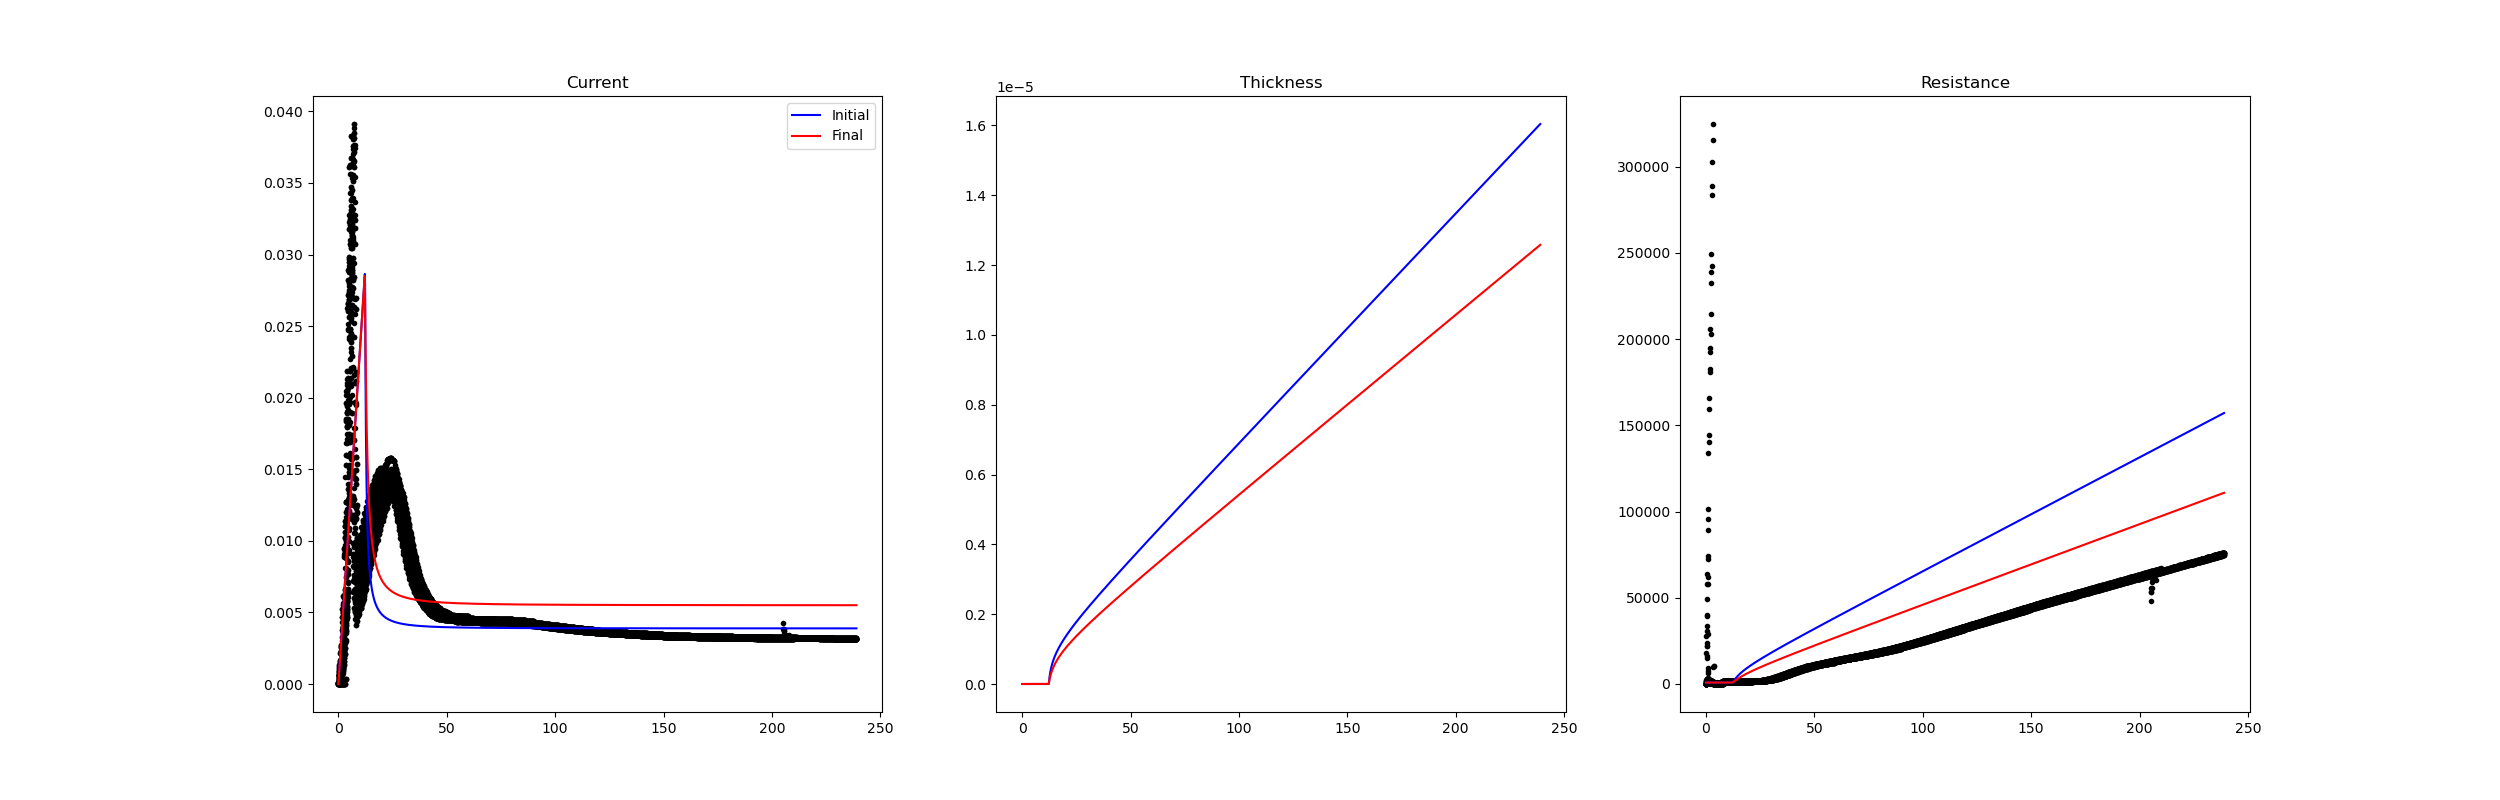
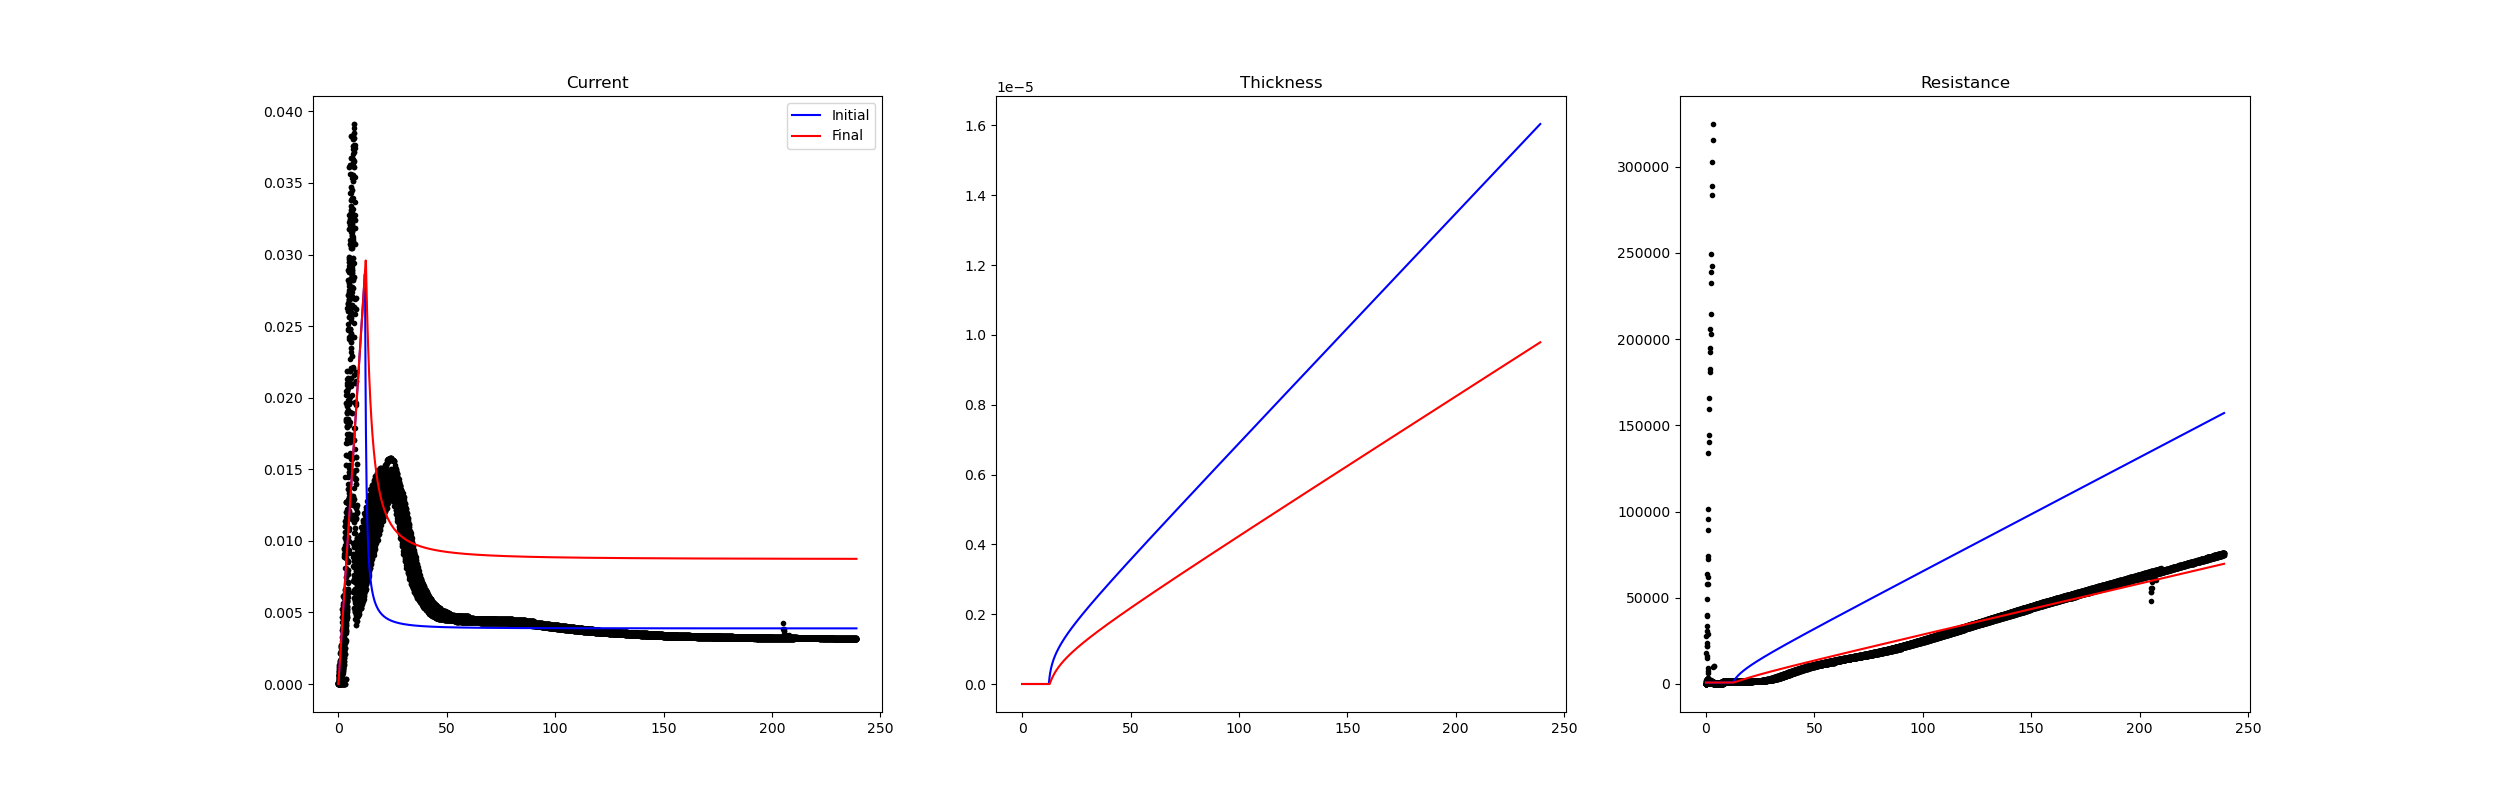
Data Experiment

diff --git a/new/NEODE_all.py b/new/NEODE_all.py
@@ -112,10 +112,6 @@ class ECOAT(nn.Module):
         tv1 = torch.cat([tv1, t_event.reshape(-1)])
         tv2 = torch.arange(float(tv1[-2])+0.1, T+1e-4, dt).to(self.device)
         tv2 = torch.cat([t_event.reshape(-1), tv2])
-        print('shape tv1: ', np.shape(tv1))
-        print(tv1[0], ' ', tv1[-2], ' ', tv1[-1])
-        print('shape tv2: ', np.shape(tv2))
-        print(tv2[0], ' ', tv2[1], ' ', tv2[-1])
 
         out1 = odeint(self, self.y0, tv1, method='scipy_solver', options={'solver': 'LSODA'})
         y1 = self.update_state(0, out1)
@@ -159,7 +155,7 @@ del data_model
 model = ECOAT(L, Sigma, R_film0, VR=VR).to(device)
 optimizer = torch.optim.Adam(model.parameters(), lr = 5e-2)
 
-epochs = 10
+epochs = 100
 n_batch = 1
 
 loss_v = np.zeros((epochs, ))
@@ -171,15 +167,13 @@ for epoch in range(epochs):
     model.zero_grad()
 
     t, cur, res, thk, t_event = model.simulate(T)
-    print('event time: ', t_event)
-    print(np.shape(cur))
-    print(np.shape(data_cur[0]))
-    data_filled = fill_data_torch(data_cur[0], cur[:, 0, :].reshape(1, -1))
+    data_filled_cur = fill_data_torch(data_cur[0], cur[:, 0, :].reshape(1, -1))
+    data_filled_res = fill_data_torch(data_res[0], res[:, 0, :].reshape(1, -1))
     cur1 = torch.transpose(cur, 0, 2)
-    #print(np.shape(cur))
-    #print(np.shape(data_filled))
+    res1 = torch.transpose(res, 0, 2)
 
-    loss = torch.mean((torch.tile(data_filled.unsqueeze(0), (n_batch, 1, 1)) - torch.tile(cur1[:, 0, :].unsqueeze(1), (1, int(n_trials[0]), 1)))**2) #torch.mean(100*(t_event-t_event_data)**2)#
+    loss = torch.mean((torch.tile(data_filled_cur.unsqueeze(0), (n_batch, 1, 1)) - torch.tile(cur1[:, 0, :].unsqueeze(1), (1, int(n_trials[0]), 1)))**2) #torch.mean(100*(t_event-t_event_data)**2)#
+    loss = loss + torch.mean((torch.tile(data_filled_res.unsqueeze(0), (n_batch, 1, 1)) - torch.tile(res1[:, 0, :].unsqueeze(1), (1, int(n_trials[0]), 1)))**2) #torch.mean(100*(t_event-t_event_data)**2)#
     loss.backward()
 
     print("Epoch: ", epoch, " , Loss: ", loss)
@@ -194,6 +188,10 @@ for epoch in range(epochs):
 
 #res_data = res_data.cpu().numpy()
 #thk_data = thk_data.cpu().numpy()
+print('Final Param Values:')
+print('K: ', model.K)
+print('logCv: ', model.logCv)
+print('jmin: ', model.jmin)
 
 t, cur = t.cpu().detach().numpy(), cur.cpu().detach().numpy()
 res, thk = res.cpu().detach().numpy(), thk.cpu().detach().numpy()
